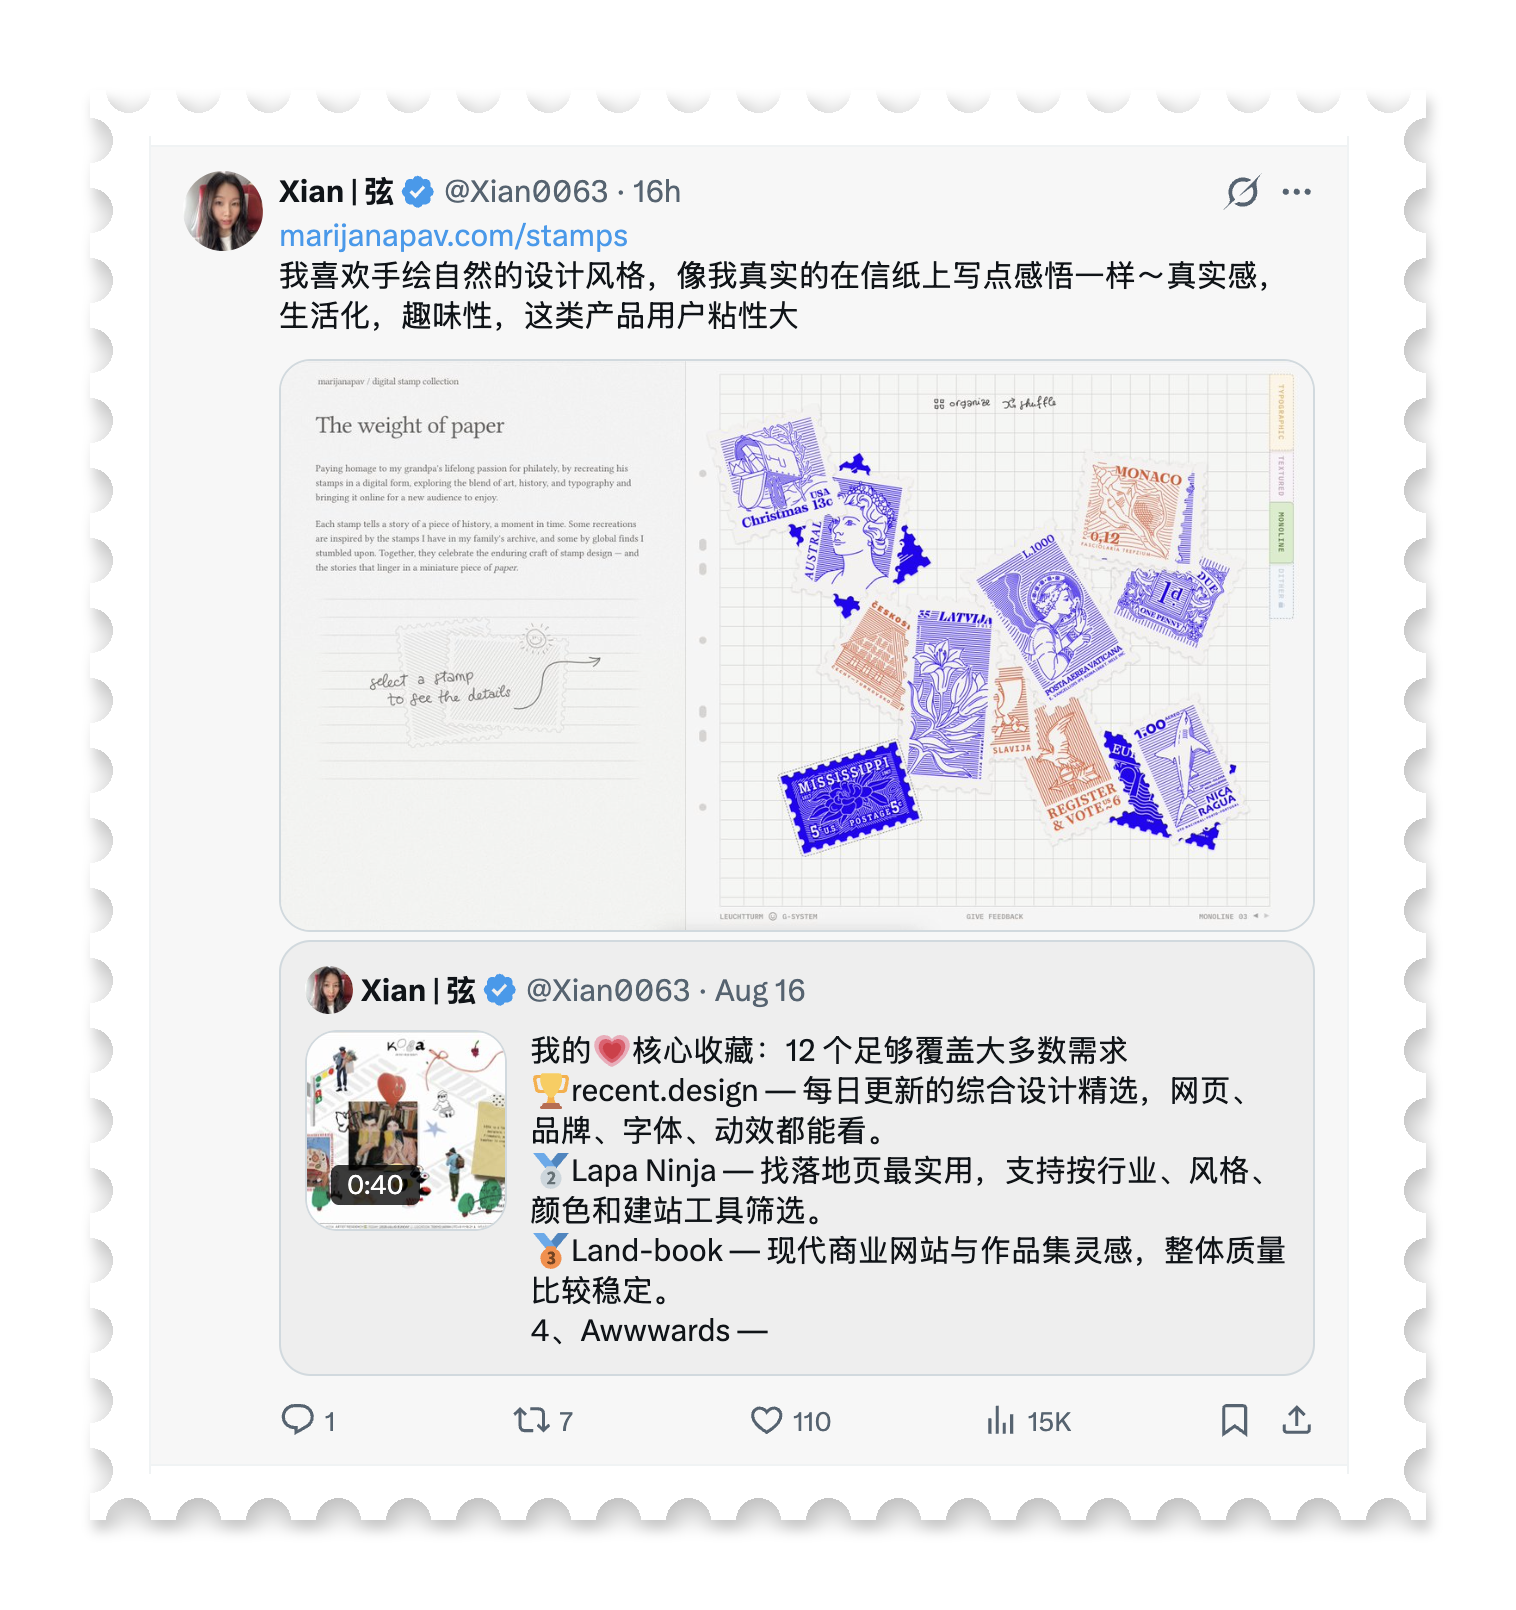
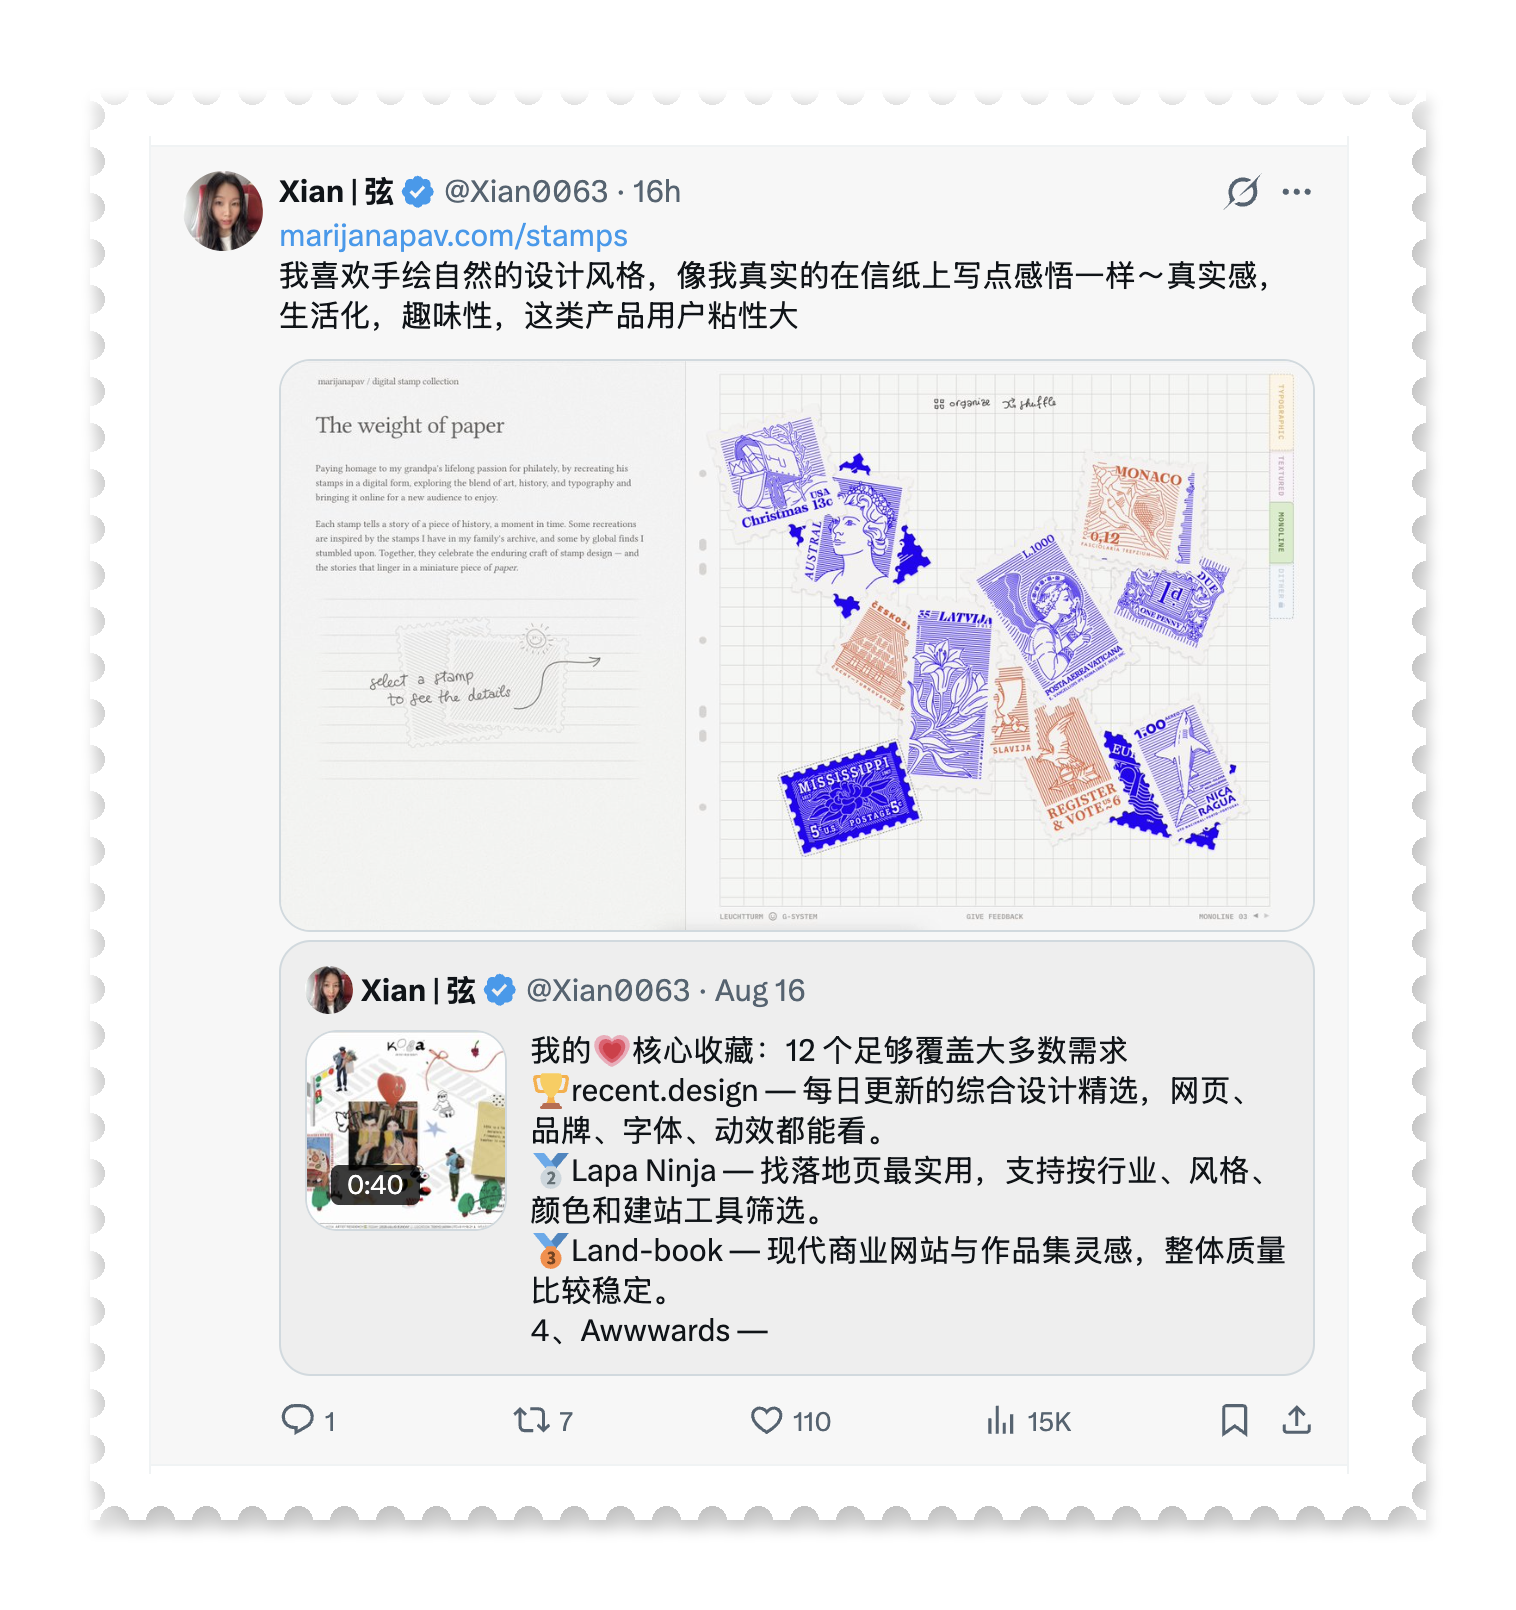
Smaller, denser perforation holes (hole_r 22->14, pitch 70->46)

diff --git a/stamp_effect.py b/stamp_effect.py
@@ -23,8 +23,8 @@ W, H = img.size
 
 # ---- 参数(可按需调整) ----
 margin = 46                 # 内容到邮票边的白边宽度
-hole_r = 22                 # 打孔半径
-pitch = hole_r * 2 + 26     # 打孔间距
+hole_r = 14                 # 打孔半径
+pitch = hole_r * 2 + 18     # 打孔间距
 outer_pad = 90              # 邮票外留白(给投影空间)
 bg_color = (245, 245, 247, 255)
 shadow_alpha = 70           # 投影不透明度 0-255

diff --git a/SKILL.md b/SKILL.md
@@ -33,8 +33,8 @@ python3 ~/.agents/skills/stamp-edge/stamp_effect.py <输入图> <输出图.png> 
 | 参数 | 默认值 | 说明 |
 |------|--------|------|
 | `margin` | 46 | 内容到锯齿边的白边宽度 |
-| `hole_r` | 22 | 打孔半圆半径 |
-| `pitch` | 70 | 打孔间距(= hole_r*2+26) |
+| `hole_r` | 14 | 打孔半圆半径 |
+| `pitch` | 46 | 打孔间距(= hole_r*2+18) |
 | `outer_pad` | 90 | 邮票外留白(投影空间) |
 | `shadow_alpha` | 70 | 投影不透明度 |
 

diff --git a/README.md b/README.md
@@ -25,8 +25,8 @@ python3 stamp_effect.py <输入图> <输出图.png> bg
 | 参数 | 默认值 | 说明 |
 |------|--------|------|
 | `margin` | 46 | 内容到锯齿边的白边宽度 |
-| `hole_r` | 22 | 打孔半圆半径 |
-| `pitch` | 70 | 打孔间距 |
+| `hole_r` | 14 | 打孔半圆半径 |
+| `pitch` | 46 | 打孔间距 |
 | `outer_pad` | 90 | 邮票外留白(投影空间) |
 | `shadow_alpha` | 70 | 投影不透明度 |
 
